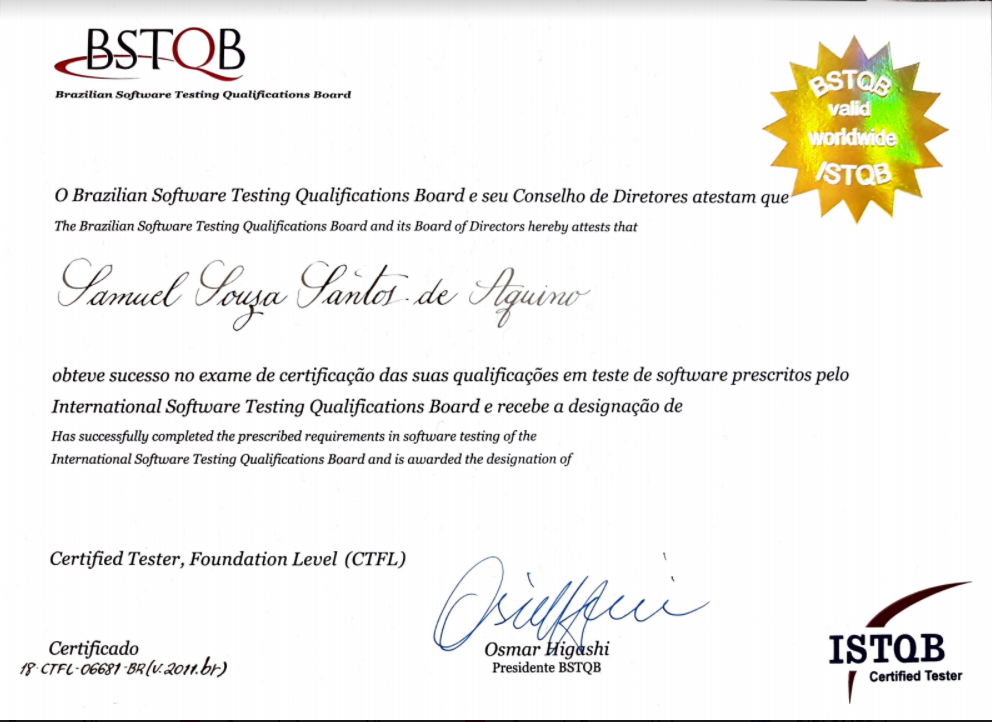
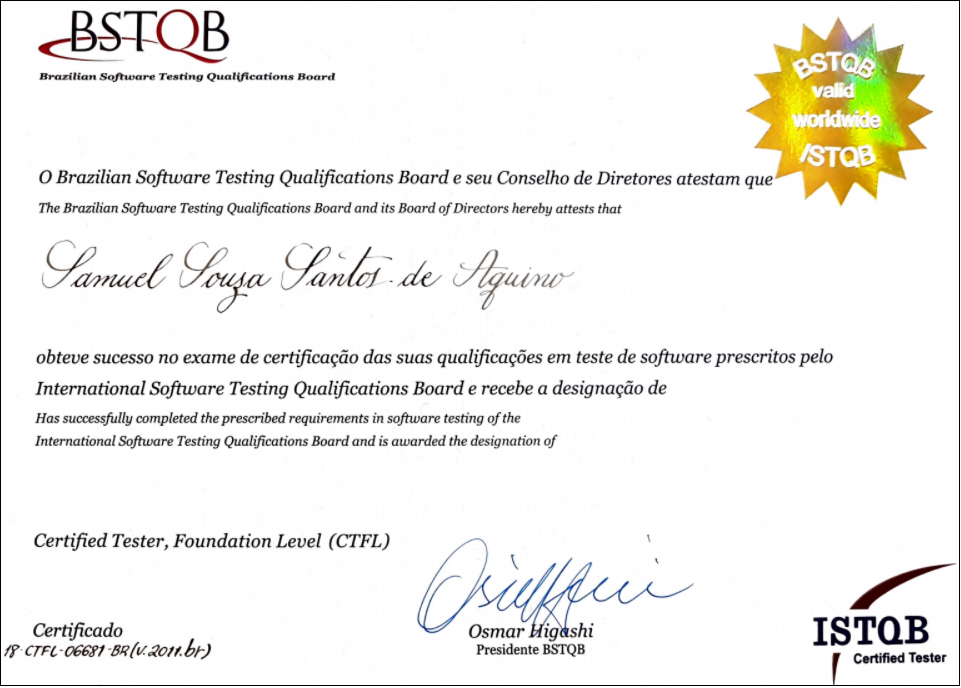
adjust images

diff --git a/index.html b/index.html
@@ -377,12 +377,12 @@
             </div>
 
             <p class="lead textoPreto ">
-            <div class="row ">
-                <div class="col-md-6 ">
-                    <div class="card mb-4 box-shadow ">
-                        <img class="card-img-top "
+            <div class="row">
+                <div class="col-md-6">
+                    <div class="card mb-4 box-shadow">
+                        <img class="rounded mx-auto d-block"
                             data-src="holder.js/100px225?theme=thumb&amp;bg=55595c&amp;fg=eceeef&amp;text=Thumbnail "
-                            alt="Thumbnail [100%x100%] " style="height: 100%; width: 100%; display: block; "
+                            alt="Thumbnail [100%100%] " style="height: 50%; width: 70%; display: block; "
                             src="img/CTFL.png" data-holder-rendered="true ">
                         <div class="card-body ">
                             <p class="card-text ">Certified Tester Foundation Level - CTFL</p>
@@ -392,9 +392,9 @@
                 </div>
                 <div class="col-md-6 ">
                     <div class="card mb-4 box-shadow ">
-                        <img class="card-img-top "
+                        <img class="rounded mx-auto d-block"
                             data-src="holder.js/100px225?theme=thumb&amp;bg=55595c&amp;fg=eceeef&amp;text=Thumbnail "
-                            alt="Thumbnail [100%x100%] " style="height: 100%; width: 100%; display: block; "
+                            alt="Thumbnail [100%100%] " style="height: 50%; width: 70%; display: block; "
                             src="img/CTFLAT.png" data-holder-rendered="true ">
                         <div class="card-body ">
                             <p class="card-text ">Certified Tester Foundation Level, Agile Tester - CTFL-AT</p>
